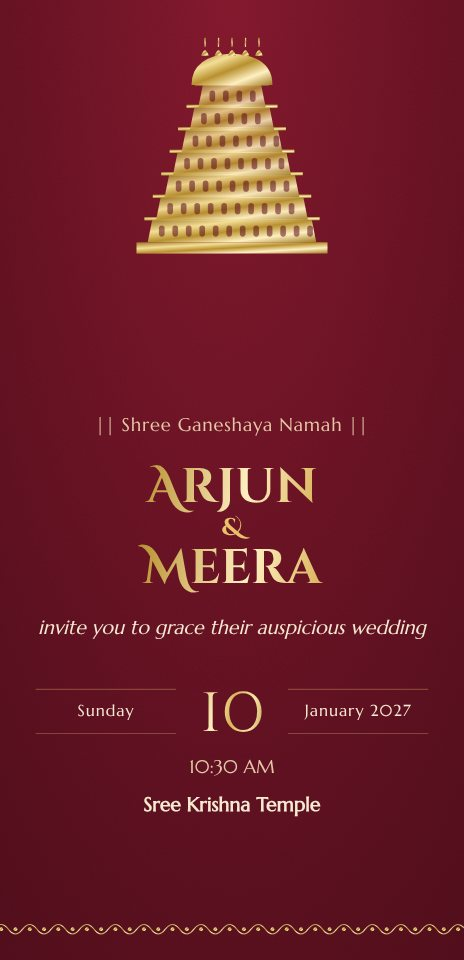
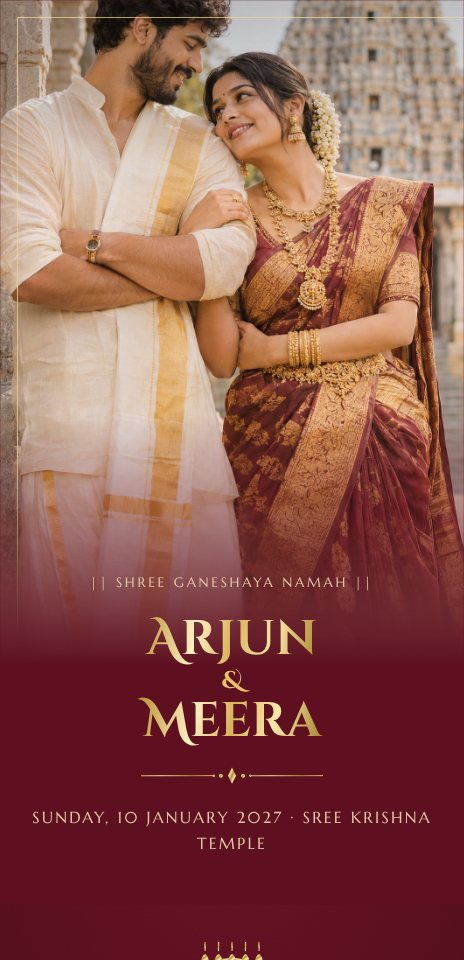
Design cards and previews use each design's own couple photo (19 designs)
Claude-Session: https://claude.ai/code/session_01HTLJ5qXdA6w9sojxHduBi6

diff --git a/lib/sections.php b/lib/sections.php
@@ -90,7 +90,11 @@ function preview_modal(): void
     $done = true;
     $photos = array_values(array_filter([slot_url('demo-1'), slot_url('demo-2'), slot_url('demo-3')]));
     $cfg = ['photos' => $photos, 'video' => setting('demo_video'), 'brand' => setting('brand'), 'domain' => setting('site_domain'),
-        'led' => array_values(array_filter(array_map(fn($id) => slot_url('theme-' . $id) ? [$id, slot_url('theme-' . $id)] : null, PHOTO_LED_THEMES)))];
+        'led' => array_values(array_filter(array_map(function ($id) {
+            // each design leads with its own couple: photo-led designs use their cover photo, the rest their sample couple
+            $u = slot_url((in_array($id, PHOTO_LED_THEMES, true) ? 'theme-' : 'sample-') . $id);
+            return $u ? [$id, $u] : null;
+        }, array_keys(THEMES))))];
     echo '<div class="pv-modal" id="pv-modal" hidden role="dialog" aria-modal="true" aria-labelledby="pv-title"><div class="pv-box">'
         . '<div class="pv-head"><div><small id="pv-tier"></small><h3 id="pv-title">Preview</h3></div><button type="button" class="pv-x" id="pv-x" aria-label="Close preview">&times;</button></div>'
         . '<div class="phone pv-phone"><iframe id="pv-frame" title="Design preview"></iframe></div>'
